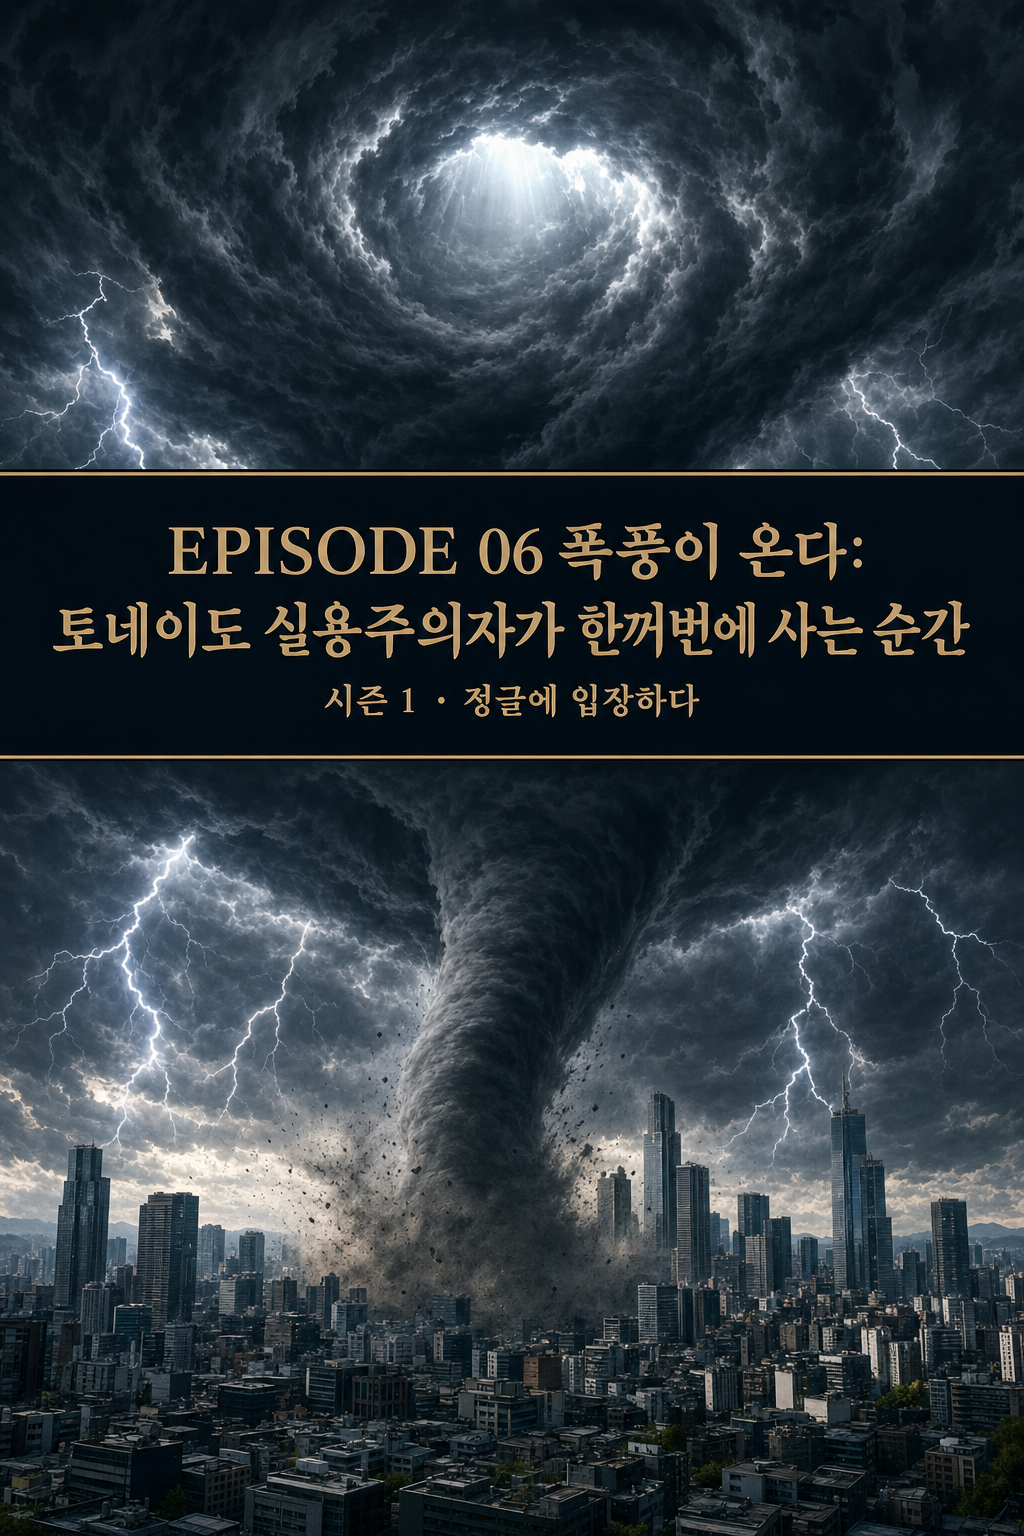
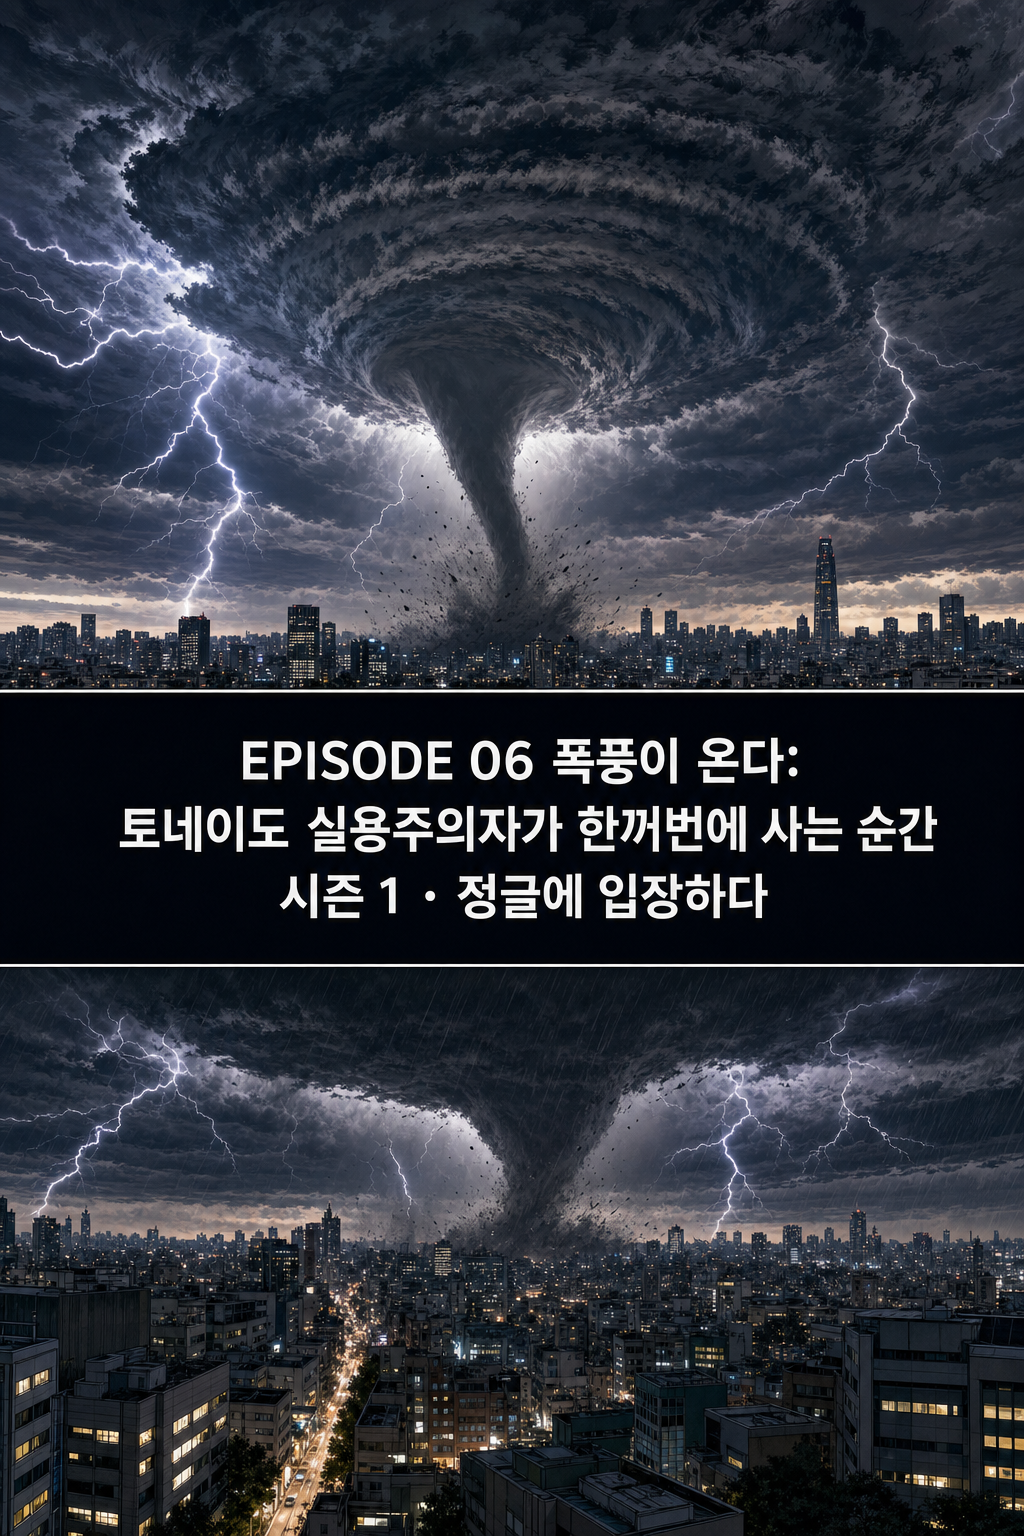
fix(comic): 태블릿 차트 자생의 근본 원인 제거 — 공용 CHARS의 소품 정의가 SCREEN RULE과 충돌
- gen_images.py: GROWTH friend 태블릿을 '항상 꺼짐'으로 재정의 (검수 2건이 공통 지목한 원인)
- Ep6 4장(표지 톤·오타 2·화자)·Ep7 4장(루프 도식·한실속 정체성·인물·캡션 밴드) 보정 후 재생성 가동
- Ep8·9 근본 수정 반영판으로 재개

diff --git a/comic-gen/gen_ep7.py b/comic-gen/gen_ep7.py
@@ -56,13 +56,13 @@ PAGES = {
  "p05":"One panel (~100%). A whiteboard cloud market-share bar chart: a tall 'AWS' bar (leader), a tall 'Azure' bar (2nd), and small '그 외' bars; 1st and 2nd overwhelmingly large; JU BON-JIL pointing. Clean English labels AWS, Azure.",
  "p06":"Two panels. (1 ~55%) JU BON-JIL explaining that pragmatists only buy the verified 1st and 2nd; NA BAE-UM noting. (2 ~45%) close-up of NA BAE-UM ONLY (late-30s, plain black hair, NO glasses, charcoal shirt); JU BON-JIL must NOT appear in this panel; the thought balloon belongs to NA BAE-UM.",
  "p07":"Two panels. (1 ~55%) HAN TANG-SU's confident face starting to waver, uneasy. (2 ~45%) a small share-chart shadow behind him.",
- "p08":"Two panels. (1 ~55%) NA BAE-UM asking why only 1st and 2nd; JU BON-JIL turning to HAN SIL-SOK. (2 ~45%) HAN SIL-SOK's calm face.",
- "p09":"Two panels. (1 ~55%) HAN SIL-SOK (pragmatist) explaining his choice calmly; NA BAE-UM listening. (2 ~45%) HAN SIL-SOK matter-of-fact close-up.",
+ "p08":"Two panels. (1 ~55%) NA BAE-UM asking why only 1st and 2nd; JU BON-JIL turning to HAN SIL-SOK. (2 ~45%) HAN SIL-SOK's calm face. Panel 2 shows JU BON-JIL's face ONLY (grey-streaked hair, navy crewneck sweater, NO vest).",
+ "p09":"Two panels. (1 ~55%) HAN SIL-SOK (pragmatist) explaining his choice calmly; NA BAE-UM listening. (2 ~45%) HAN SIL-SOK matter-of-fact close-up. HAN SIL-SOK ONLY speaks on this page: BLACK hair, 40s, knit VEST over a neat shirt, thin metal glasses; JU BON-JIL (grey hair, navy sweater) must NOT appear.",
  "p10":"Two panels. (1 ~55%) JU BON-JIL turning to the whiteboard to draw a loop; NA BAE-UM ready. (2 ~45%) close-up of NA BAE-UM ONLY (late-30s, plain black hair, NO glasses, charcoal shirt); JU BON-JIL must NOT appear in this panel; the thought balloon belongs to NA BAE-UM.",
  "p11":"One panel (~100%). A whiteboard POSITIVE FEEDBACK LOOP drawn as a circular arrow diagram with clean Korean labels around the circle: '실용주의자가 1등 선택' → '도구·파트너·교육이 더 붙음' → '또 새 실용주의자가 1등 선택' → (loops back); the circle growing larger as the leader strengthens; JU BON-JIL beside.",
  "p12":"Two panels. (1 ~55%) JU BON-JIL tracing the loop, explaining the first half; NA BAE-UM following. (2 ~45%) close on the loop arrows.",
  "p13":"Two panels. (1 ~55%) JU BON-JIL completing the loop point, emphatic; NA BAE-UM nodding. (2 ~45%) close-up of NA BAE-UM ONLY (late-30s, plain black hair, NO glasses, charcoal shirt); JU BON-JIL must NOT appear in this panel; the thought balloon belongs to NA BAE-UM.",
- "p14":"One panel (~100%). The same loop diagram, now with the circle clearly enlarged and the leader bar towering; a small side label 'AI 빅테크가 HBM을 사면 SK하이닉스·삼성에 자본·생태계가 쏠린다'; JU BON-JIL pointing.",
+ "p14":"One panel (~100%). The same loop diagram, now with the circle clearly enlarged and the leader bar towering; a small side label 'AI 빅테크가 HBM을 사면 SK하이닉스·삼성에 자본·생태계가 쏠린다'; JU BON-JIL pointing. The whiteboard shows EXACTLY one circular 3-label loop diagram (arrows in a circle), labels ONLY: '실용주의자가 1등 선택' / '도구·파트너·교육이 더 붙음' / '또 새 실용주의자가 1등 선택'; NO hub-and-spoke shape, NO other node labels.",
  "p15":"Two panels. (1 ~55%) JU BON-JIL adding that memory follows the same path; NA BAE-UM impressed. (2 ~45%) NA BAE-UM's understanding face.",
  "p16":"Two panels. (1 ~55%) NA BAE-UM with a realization, the winner-takes-more idea clicking. (2 ~45%) NA BAE-UM's eyes lighting up.",
  "p17":"Two panels. (1 ~55%) JU BON-JIL summarizing the investor takeaway; NA BAE-UM noting. (2 ~45%) close-up of NA BAE-UM ONLY (late-30s, plain black hair, NO glasses, charcoal shirt); JU BON-JIL must NOT appear in this panel; the thought balloon belongs to NA BAE-UM.",
@@ -78,7 +78,7 @@ PAGES = {
  "p27":"Two panels. (1 ~55%) NA BAE-UM giving HAN TANG-SU a wry sympathetic glance. (2 ~45%) HAN TANG-SU dejected.",
  "p28":"One panel (~100%). In the background, two flags clash on a hilltop in silhouette (a standards war); JU BON-JIL's small figure in front, serious.",
  "p29":"Two panels. (1 ~55%) JU BON-JIL delivering the cliffhanger about the coming standards war; NA BAE-UM listening intently. (2 ~45%) the two clashing flags, dramatic.",
- "p30":"One panel (~100%). Closing chapter-end: two flags clashing on a hilltop; NA BAE-UM and JU BON-JIL small figures; reserve a black caption band across the very bottom for the next-episode preview.",
+ "p30":"One panel (~100%). Closing chapter-end: two flags clashing on a hilltop; NA BAE-UM and JU BON-JIL small figures; reserve a black caption band across the very bottom for the next-episode preview. THE ONLY TEXT ON THIS ENTIRE PAGE is the specified caption lettered in white INSIDE the bottom black band; NO white caption box; the two figures are SMALL distant silhouettes watching, NOT holding the flags; flag colors blue and red matching the previous page.",
 }
 
 DLG = {

diff --git a/comic-gen/gen_ep6.py b/comic-gen/gen_ep6.py
@@ -49,7 +49,7 @@ def clean_spec(spec):
     s = re.sub(r'\bempty\b','',s,flags=re.I); s = re.sub(r'\s{2,}',' ',s); return s
 
 PAGES = {
- "p01":"A cinematic chapter-title page. A massive TORNADO storm silhouette sweeps over a city skyline, lightning and churning clouds, a spotlight at the storm's core. Leave a clean dark band across the center for the episode title. Korean webtoon chapter cover, epic stormy tone.",
+ "p01":"A cinematic chapter-title page drawn in the SAME inked Korean webtoon linework as the interior pages (bold ink lines, flat washes; NOT photographic, NOT CGI): a massive TORNADO storm silhouette sweeps over a city skyline, lightning and churning clouds, a spotlight at the storm's core. Leave a clean dark band across the center for the episode title. Korean webtoon chapter cover, epic stormy tone.",
  "p02":"Two panels, study room. (1 ~55%) NA BAE-UM asking JU BON-JIL what comes when all the bowling pins finally fall; JU BON-JIL calm. (2 ~45% close-up) JU BON-JIL with a knowing look, about to explain the storm.",
  "p03":"Two panels, late-2022 vibe. (1 ~55%) a ChatGPT-style AI chat screen spreading explosively, glowing, shared everywhere. (2 ~45%) close on the screen, a sense of viral explosion.",
  "p04":"One panel (~100%). A big bold counter graphic '2개월 만에 1억 사용자' over a montage of many people on phones/laptops all using the AI chat at once; explosive adoption.",
@@ -75,7 +75,7 @@ PAGES = {
  "p24":"Two panels. (1 ~55%) NA BAE-UM resolved, understanding settling. (2 ~45%) his thoughtful close-up.",
  "p25":"Two panels, quiet beat. (1 ~60%) NA BAE-UM alone, contemplative, negative space. (2 ~40%) his resolved eyes extreme close-up.",
  "p26":"One panel (~100%). A crowd of people (pragmatist masses) rushing together in the same direction in silhouette; a sense of herd movement.",
- "p27":"Two panels. (1 ~55%) JU BON-JIL turning toward the crowd idea, a knowing smile; NA BAE-UM curious. (2 ~45%) the crowd silhouette in the background.",
+ "p27":"Two panels. (1 ~55%) JU BON-JIL turning toward the crowd idea, a knowing smile; NA BAE-UM curious. (2 ~45%) the crowd silhouette in the background. The thought balloon belongs ONLY to NA BAE-UM, its tail pointing at NA BAE-UM, NEVER at the red-cap character.",
  "p28":"Two panels. (1 ~55%) JU BON-JIL delivering the cliffhanger about herd psychology; NA BAE-UM listening. (2 ~45%) the crowd rushing one way, stronger.",
  "p29":"One panel (~100%). The crowd surging toward one direction with JU BON-JIL's small silhouette watching; dramatic.",
  "p30":"One panel (~100%). Closing chapter-end: the herd crowd silhouette; NA BAE-UM and JU BON-JIL small figures; reserve a black caption band across the very bottom for the next-episode preview.",

diff --git a/comic-gen/gen_images.py b/comic-gen/gen_images.py
@@ -54,7 +54,7 @@ CHARS = (
     "HAN TANG-SU (comic foil) early-20s, slightly chubby, messy dark hair under a RED cap, "
     "mustard-orange oversized hoodie and blue jeans, always holding a smartphone, cocky restless. "
     "Minor: VALUE friend (late-20s, glasses, thick finance book), GROWTH friend (late-20s, "
-    "energetic, tablet with a rising revenue graph), FUND MANAGER (back/silhouette, six monitors)."
+    "energetic, holds a tablet that is ALWAYS switched OFF with a plain dark screen), FUND MANAGER (back/silhouette, six monitors)."
 )
 RULES = (
     "FORMAT: a single vertical Korean webtoon PAGE with the panels described, separated by thin "
